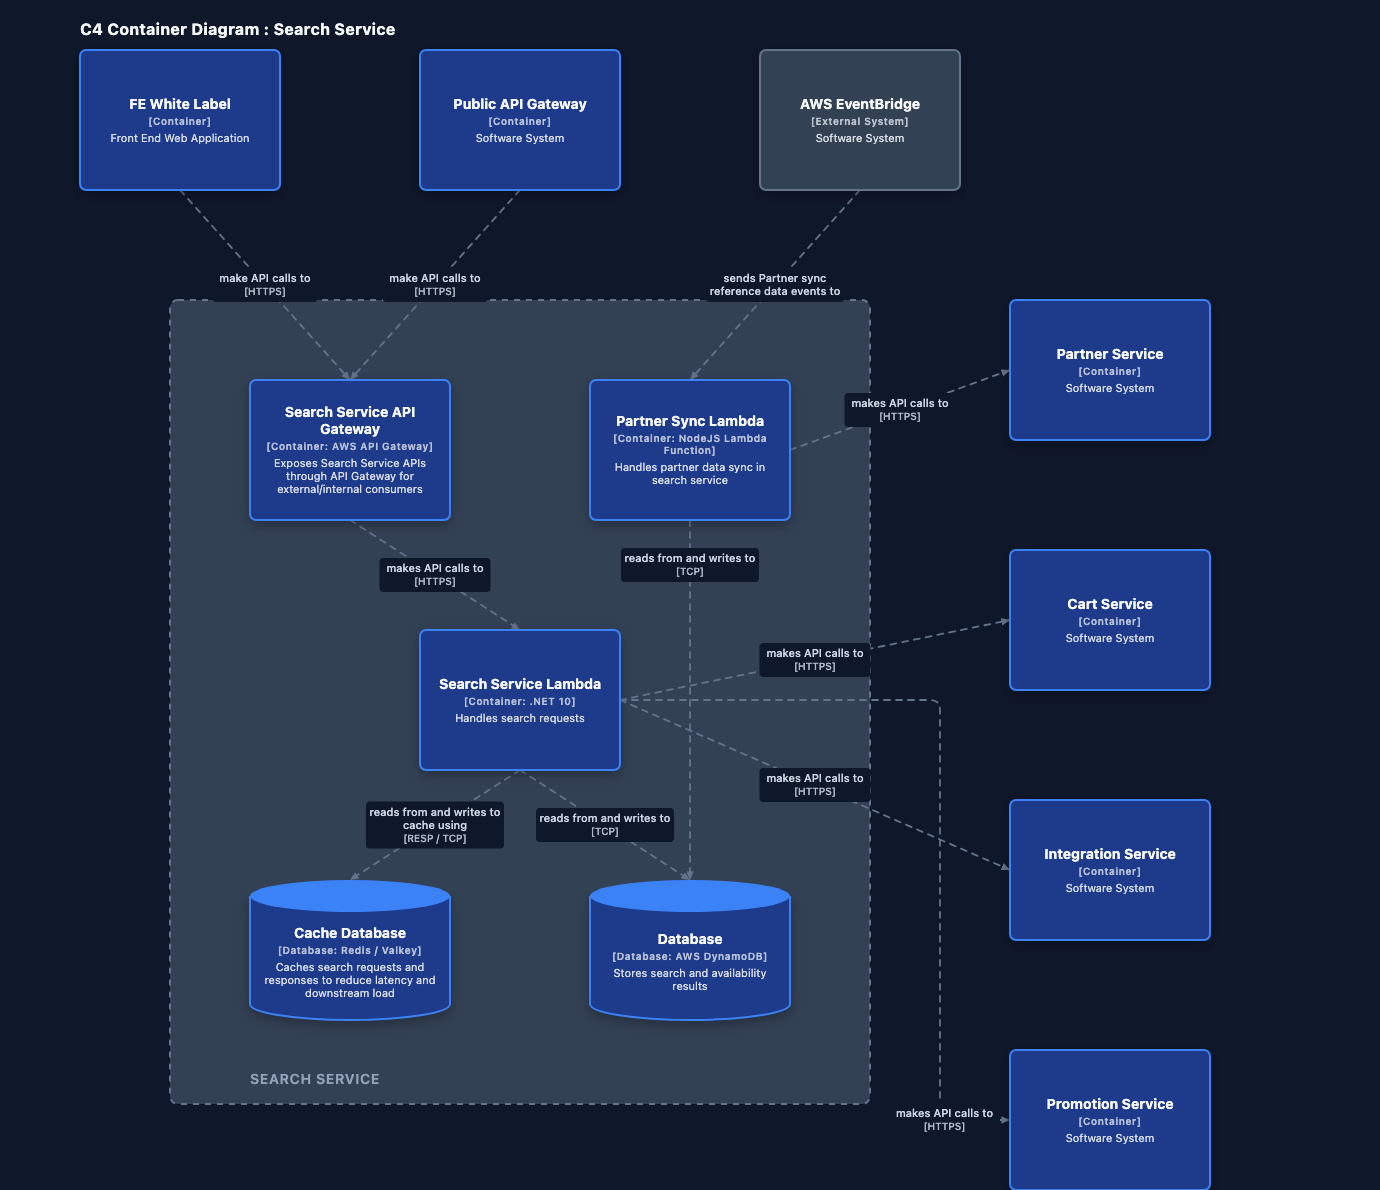
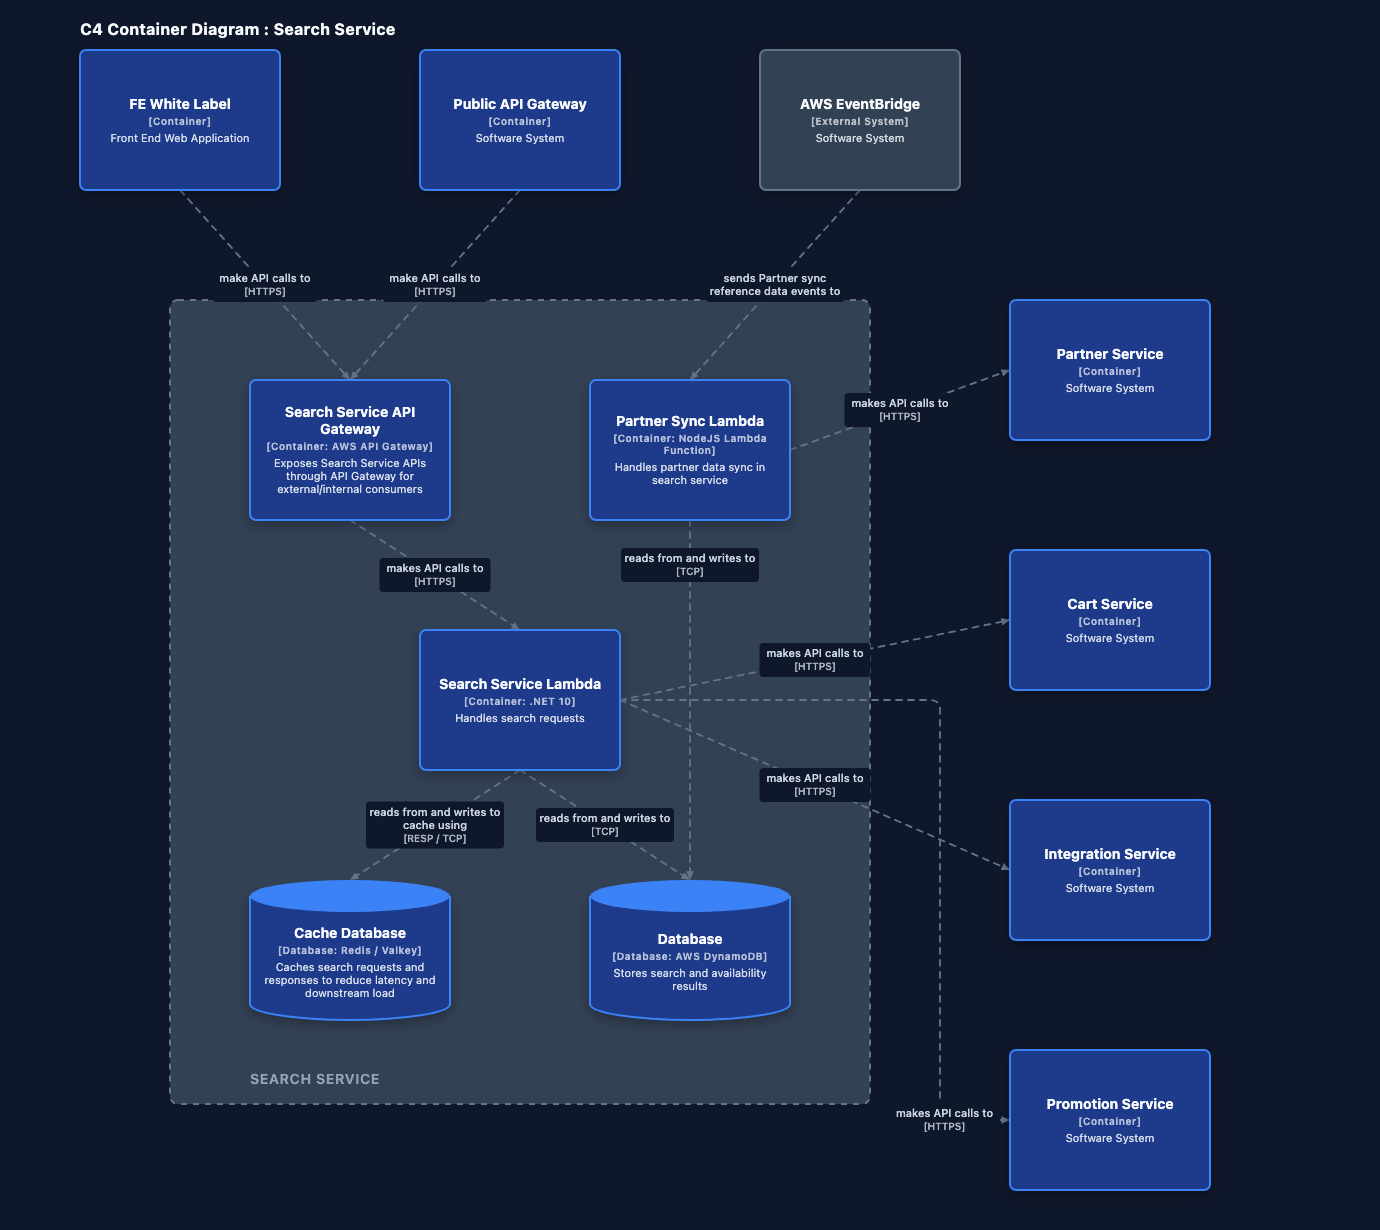
Add 40px bottom padding to diagrams to prevent clipping of bottom-most nodes

diff --git a/src/render_engine.js b/src/render_engine.js
@@ -102,10 +102,11 @@ const elk = new ELK();
         const titleWidth = measureTextWidth(titleText, 16, true) + 60;
         const finalWidth = Math.max(laidOutGraph.width + DIAGRAM_H_PAD * 2, titleWidth);
 
+        const DIAGRAM_B_PAD = 40;
         return {
           success: true,
           width: finalWidth,
-          height: laidOutGraph.height + 50,
+          height: laidOutGraph.height + 50 + DIAGRAM_B_PAD,
           nodes: flattenNodes(laidOutGraph, DIAGRAM_H_PAD, 50),
           edges: flattenEdges(laidOutGraph, DIAGRAM_H_PAD, 50)
         };
@@ -1220,9 +1221,10 @@ const elk = new ELK();
       const finalWidth = Math.max(graph.width + DIAGRAM_H_PAD * 2, titleWidth);
 
       // Adjust viewport size dynamically (shifted vertically by +50px for title)
-      svg.setAttribute("viewBox", `0 0 ${finalWidth} ${graph.height + 50}`);
+      const DIAGRAM_B_PAD = 40;
+      svg.setAttribute("viewBox", `0 0 ${finalWidth} ${graph.height + 50 + DIAGRAM_B_PAD}`);
       svg.style.width = `${finalWidth}px`;
-      svg.style.height = `${graph.height + 50}px`;
+      svg.style.height = `${graph.height + 50 + DIAGRAM_B_PAD}px`;
 
       const allComponents = flattenNodes(graph, DIAGRAM_H_PAD, 50).filter(n => n.type !== 'boundary');
       const placedLabels = [];